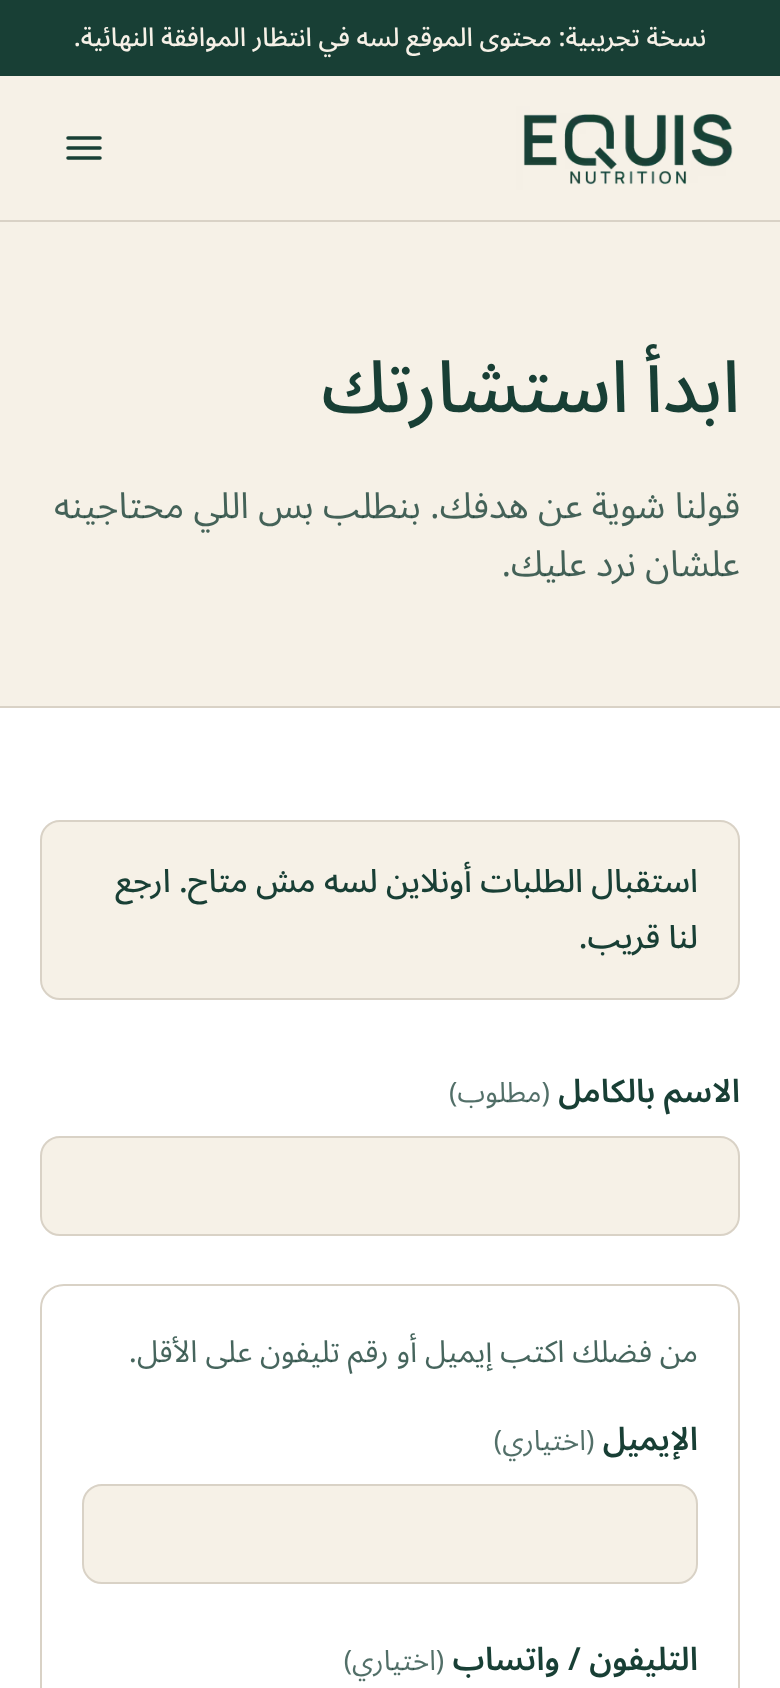
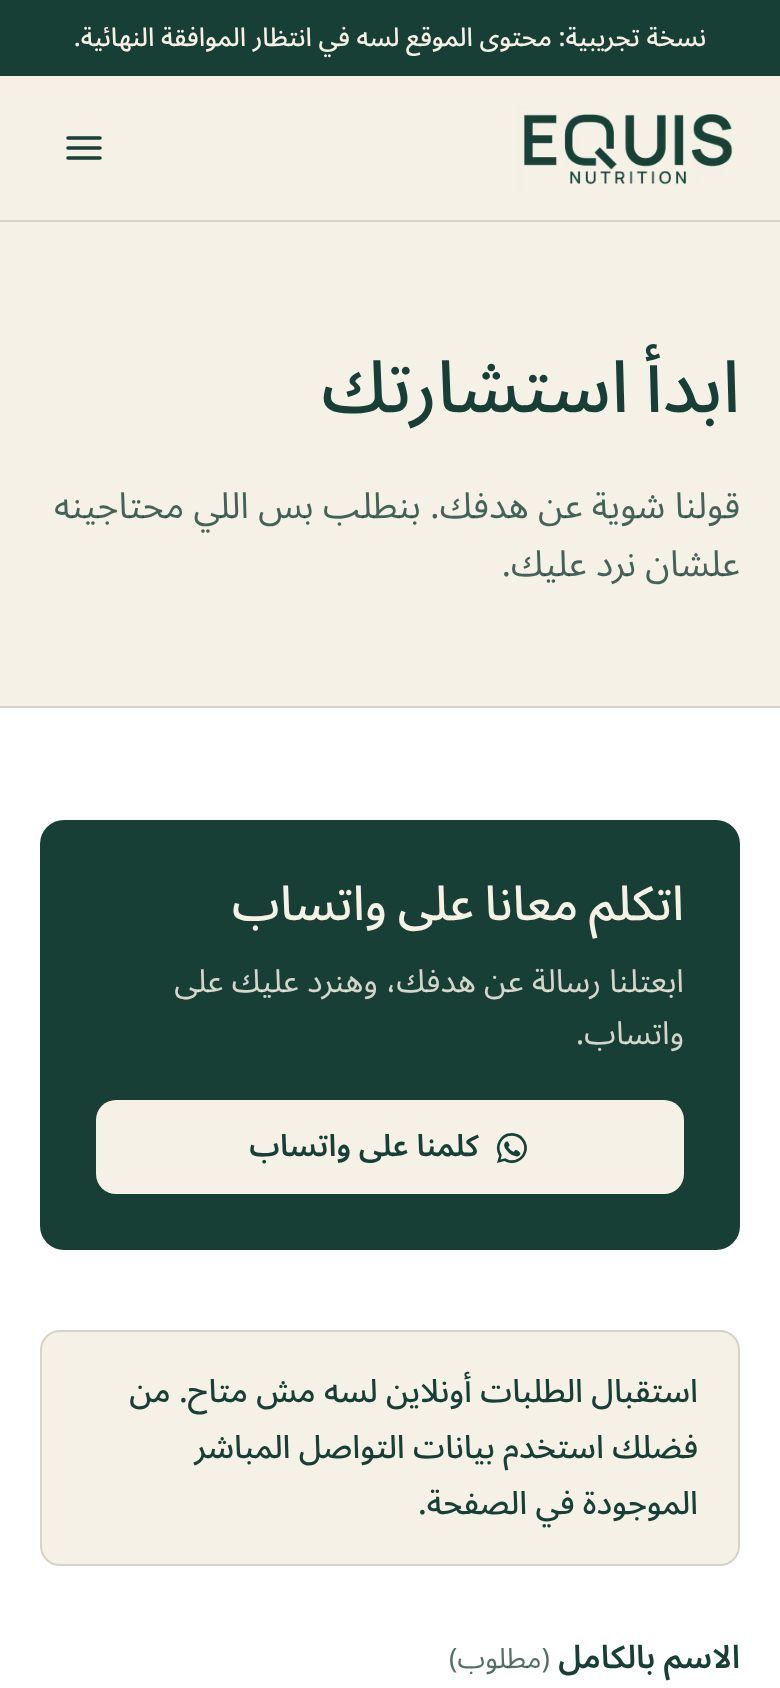
Add WhatsApp contact (+20 10 5566 3884)
- Configure the owner-supplied WhatsApp number in business config
- WhatsApp button with a localized pre-filled greeting on the CTA band
  and as the primary action on the contact page while online
  enquiries are not configured
- Tests for link format and visibility; build report updated

Claude-Session: https://claude.ai/code/session_016KsPWHrbnGZ8D5GdB4mDmh

diff --git a/src/app/[locale]/contact/page.tsx b/src/app/[locale]/contact/page.tsx
@@ -3,7 +3,8 @@ import { getTranslations } from "next-intl/server";
 import { resolveLocale } from "@/lib/page";
 import { pageMetadata } from "@/lib/seo";
 import { isEnquiryConfigured } from "@/lib/enquiry/adapter";
-import { getContactChannels } from "@/lib/contact";
+import { getContactChannels, getWhatsAppLink } from "@/lib/contact";
+import { WhatsAppButton } from "@/components/marketing/WhatsAppButton";
 import { PageHeader } from "@/components/marketing/PageHeader";
 import { EnquiryForm } from "@/components/forms/EnquiryForm";
 
@@ -18,6 +19,7 @@ export default async function ContactPage({ params }: PageProps<"/[locale]/conta
   const t = await getTranslations("contact");
   const channels = getContactChannels();
   const configured = isEnquiryConfigured();
+  const hasWhatsApp = getWhatsAppLink() !== null;
 
   return (
     <>
@@ -25,6 +27,20 @@ export default async function ContactPage({ params }: PageProps<"/[locale]/conta
       <div className="bg-white py-14 md:py-20">
         <div className="container-site grid gap-12 lg:grid-cols-[1.6fr_1fr] lg:gap-16">
           <div>
+            {hasWhatsApp ? (
+              <section
+                aria-labelledby="whatsapp"
+                className={`mb-10 rounded-[12px] p-7 ${configured ? "border border-neutral bg-cream" : "bg-evergreen text-cream"}`}
+              >
+                <h2 id="whatsapp" className="font-serif text-2xl font-medium">
+                  {t("whatsappTitle")}
+                </h2>
+                <p className={`mt-2 leading-relaxed ${configured ? "text-evergreen/80" : "text-cream/85"}`}>
+                  {t("whatsappLead")}
+                </p>
+                <WhatsAppButton variant={configured ? "primary" : "inverse"} className="mt-5 w-full sm:w-auto" />
+              </section>
+            ) : null}
             <EnquiryForm configured={configured} hasDirectContact={channels.length > 0} />
           </div>
           <aside className="space-y-6">

diff --git a/tests/content.test.ts b/tests/content.test.ts
@@ -5,7 +5,7 @@ import fr from "@/messages/fr.json";
 import { businessConfig } from "@/config/business";
 import { contentConfig } from "@/config/content";
 import { enabledPages, mainNav } from "@/config/pages";
-import { getContactChannels, getSocialLinks } from "@/lib/contact";
+import { getContactChannels, getSocialLinks, getWhatsAppLink } from "@/lib/contact";
 import { createRateLimiter } from "@/lib/spam/rateLimit";
 
 function shape(value: unknown, path = ""): string[] {
@@ -57,9 +57,25 @@ describe("content gating", () => {
 });
 
 describe("contact details", () => {
+  const blank = {
+    ...businessConfig,
+    contactEmail: "",
+    phone: "",
+    whatsappNumber: "",
+    social: { instagram: "", facebook: "", tiktok: "", youtube: "" },
+  };
+
   it("publishes nothing while business details are blank", () => {
-    expect(getContactChannels(businessConfig)).toEqual([]);
-    expect(getSocialLinks(businessConfig)).toEqual([]);
+    expect(getContactChannels(blank)).toEqual([]);
+    expect(getSocialLinks(blank)).toEqual([]);
+    expect(getWhatsAppLink("hi", blank)).toBeNull();
+  });
+
+  it("uses the configured Egyptian WhatsApp number in international format", () => {
+    expect(getContactChannels(businessConfig)).toEqual([
+      { kind: "whatsapp", href: "https://wa.me/201055663884", display: "+20 10 5566 3884" },
+    ]);
+    expect(getWhatsAppLink("أهلًا EQUIS")).toBe(`https://wa.me/201055663884?text=${encodeURIComponent("أهلًا EQUIS")}`);
   });
 
   it("builds safe links only from valid configured values", () => {

diff --git a/src/components/marketing/WhatsAppButton.tsx b/src/components/marketing/WhatsAppButton.tsx
@@ -1,0 +1,31 @@
+import { getTranslations } from "next-intl/server";
+import { getWhatsAppLink } from "@/lib/contact";
+import { buttonStyles } from "@/components/ui/ButtonLink";
+
+function WhatsAppIcon() {
+  return (
+    <svg aria-hidden="true" width="18" height="18" viewBox="0 0 24 24" fill="currentColor">
+      <path d="M12 2a10 10 0 0 0-8.6 15.1L2 22l5-1.3A10 10 0 1 0 12 2Zm0 18.2c-1.5 0-3-.4-4.3-1.2l-.3-.2-3 .8.8-2.9-.2-.3A8.2 8.2 0 1 1 12 20.2Zm4.5-6.1c-.2-.1-1.5-.7-1.7-.8-.2-.1-.4-.1-.6.1l-.8 1c-.1.2-.3.2-.5.1a6.7 6.7 0 0 1-3.3-2.9c-.2-.4.2-.4.7-1.3.1-.2 0-.3 0-.4l-.8-1.8c-.2-.5-.4-.4-.6-.4h-.5a1 1 0 0 0-.7.3c-.2.3-.9.9-.9 2.2s1 2.6 1.1 2.7c.1.2 1.9 2.9 4.6 4 1.7.7 2.4.8 3.2.7.5-.1 1.5-.6 1.7-1.2.2-.6.2-1.1.1-1.2l-.5-.3Z" />
+    </svg>
+  );
+}
+
+/** Renders nothing unless a real WhatsApp number is configured. */
+export async function WhatsAppButton({
+  variant = "primary",
+  className = "",
+}: {
+  variant?: keyof typeof buttonStyles;
+  className?: string;
+}) {
+  const t = await getTranslations("contact");
+  const href = getWhatsAppLink(t("whatsappPrefill"));
+  if (!href) return null;
+  return (
+    <a href={href} target="_blank" rel="noopener noreferrer" className={`${buttonStyles[variant]} ${className}`}>
+      <WhatsAppIcon />
+      {t("whatsappCta")}
+      <span className="sr-only"> ({t("opensWhatsapp")})</span>
+    </a>
+  );
+}

diff --git a/e2e/site.spec.ts b/e2e/site.spec.ts
@@ -144,3 +144,19 @@ test("legal pages are marked as drafts, not reviewed", async ({ page }) => {
     await expect(page.getByRole("note").filter({ hasText: "not yet been legally reviewed" })).toBeVisible();
   }
 });
+
+test("WhatsApp contact links use the configured number with a localized greeting", async ({ page }) => {
+  await page.goto("/ar/contact");
+  const link = page.getByRole("link", { name: /كلمنا على واتساب/ }).first();
+  await expect(link).toBeVisible();
+  const href = (await link.getAttribute("href"))!;
+  expect(href.startsWith("https://wa.me/201055663884?text=")).toBe(true);
+  expect(decodeURIComponent(href.split("text=")[1])).toBe("أهلًا EQUIS، حابب أسأل عن الاستشارة.");
+  await expect(link).toHaveAttribute("rel", /noopener/);
+  await page.goto("/en");
+  await expect(page.getByRole("link", { name: /Message us on WhatsApp/ })).toHaveAttribute(
+    "href",
+    /^https:\/\/wa\.me\/201055663884\?text=/,
+  );
+  await expect(page.locator("footer")).toContainText("+20 10 5566 3884");
+});

diff --git a/src/components/marketing/CtaBand.tsx b/src/components/marketing/CtaBand.tsx
@@ -1,5 +1,6 @@
 import { getTranslations } from "next-intl/server";
 import { ButtonLink } from "@/components/ui/ButtonLink";
+import { WhatsAppButton } from "./WhatsAppButton";
 
 export async function CtaBand() {
   const t = await getTranslations();
@@ -13,9 +14,12 @@ export async function CtaBand() {
             </h2>
             <p className="mt-4 text-lg leading-relaxed text-cream/85">{t("home.finalCta.lead")}</p>
           </div>
-          <ButtonLink href="/contact" variant="inverse" className="shrink-0">
-            {t("common.ctaPrimary")}
-          </ButtonLink>
+          <div className="flex w-full shrink-0 flex-col gap-3 sm:w-auto sm:flex-row md:flex-col lg:flex-row">
+            <ButtonLink href="/contact" variant="inverse">
+              {t("common.ctaPrimary")}
+            </ButtonLink>
+            <WhatsAppButton variant="inverseOutline" />
+          </div>
         </div>
       </div>
     </section>

diff --git a/src/components/ui/ButtonLink.tsx b/src/components/ui/ButtonLink.tsx
@@ -1,7 +1,7 @@
 import { Link } from "@/i18n/navigation";
 import type { ComponentProps } from "react";
 
-type Variant = "primary" | "secondary" | "inverse";
+type Variant = "primary" | "secondary" | "inverse" | "inverseOutline";
 
 const base =
   "inline-flex min-h-11 items-center justify-center gap-2 rounded-[10px] px-5 py-2.5 text-[0.95rem] font-semibold transition-colors duration-150";
@@ -10,6 +10,7 @@ export const buttonStyles: Record<Variant, string> = {
   primary: `${base} bg-evergreen text-cream hover:bg-evergreen-700`,
   secondary: `${base} border border-evergreen/30 text-evergreen hover:border-evergreen hover:bg-white`,
   inverse: `${base} bg-cream text-evergreen hover:bg-white`,
+  inverseOutline: `${base} border border-cream/50 text-cream hover:border-cream hover:bg-cream/10`,
 };
 
 export function ButtonLink({

diff --git a/src/lib/contact.ts b/src/lib/contact.ts
@@ -47,6 +47,14 @@ export function getContactChannels(cfg = businessConfig): ContactChannel[] {
   return out;
 }
 
+/** WhatsApp chat link, optionally with a pre-filled first message. Null when no number is configured. */
+export function getWhatsAppLink(prefill?: string, cfg = businessConfig): string | null {
+  const wa = cfg.whatsappNumber ? normalizePhone(cfg.whatsappNumber) : null;
+  if (!wa) return null;
+  const base = `https://wa.me/${wa.e164.slice(1)}`;
+  return prefill ? `${base}?text=${encodeURIComponent(prefill)}` : base;
+}
+
 export type SocialLink = { network: keyof typeof businessConfig.social; href: string };
 
 export function getSocialLinks(cfg = businessConfig): SocialLink[] {

diff --git a/src/config/business.ts b/src/config/business.ts
@@ -3,7 +3,8 @@ export const businessConfig = {
   founderName: "Dr. Mahran Mohamed",
   contactEmail: "",
   phone: "",
-  whatsappNumber: "",
+  // International format (+20 = Egypt) so links work from the Gulf too.
+  whatsappNumber: "+20 10 5566 3884",
   address: "",
   social: {
     instagram: "",

diff --git a/docs/BUILD_REPORT.md b/docs/BUILD_REPORT.md
@@ -26,7 +26,7 @@ The site has no coaching-platform features. There is no login, dashboard, databa
 | Services | `/…/services` | Done. No prices, no guarantees. |
 | How it works | `/…/how-it-works` | Done. Explanatory only. |
 | FAQ | `/…/faq` | Done. Answers are drafts awaiting approval. |
-| Contact / Consultation | `/…/contact` | Done. The form is disabled until a provider is configured. |
+| Contact / Consultation | `/…/contact` | Done. WhatsApp is the main action; the form is disabled until a provider is configured. |
 | Privacy policy | `/…/privacy` | Draft, marked "not legally reviewed" |
 | Terms of use | `/…/terms` | Draft, marked "not legally reviewed" |
 | Transformations | `/…/transformations` | Hidden (404). Needs the flag **and** consented items. |
@@ -65,9 +65,9 @@ Unknown paths return a localized 404. `/` redirects to the visitor's browser lan
 |---|---|
 | `npm run typecheck` | Pass |
 | `npm run lint` | Pass (0 warnings) |
-| `npm test` (Vitest) | 34 / 34 pass |
+| `npm test` (Vitest) | 35 / 35 pass |
 | `npm run build` | Pass |
-| `npm run test:e2e` (Playwright) | 41 / 41 pass |
+| `npm run test:e2e` (Playwright) | 42 / 42 pass |
 
 What the end-to-end suite covers:
 - All 24 page/locale combinations: status 200, `lang` and `dir` set correctly, a single h1, canonical plus 4 hreflang links, logo artwork present, and no empty, `#` or placeholder links.
@@ -122,8 +122,9 @@ Screenshots: `docs/screenshots/`.
 
 ## Before launch (from `OPEN_ITEMS.md`)
 
-- [ ] Domain: set `NEXT_PUBLIC_SITE_URL`. Until then, canonical URLs and the sitemap use `http://localhost:3000`.
-- [ ] Contact email, phone and WhatsApp, and social URLs in `src/config/business.ts`.
+- [ ] Domain (not purchased yet): set `NEXT_PUBLIC_SITE_URL` once bought. Until then, canonical URLs and the sitemap use `http://localhost:3000`.
+- [x] WhatsApp: `+20 10 5566 3884` (supplied 2026-11-20). It shows in the footer, as a WhatsApp button next to "Start your consultation", and as the main action on the Contact page, with a pre-filled greeting in the visitor's language.
+- [ ] Optional: a public email and social URLs in `src/config/business.ts`. Phone calls are not shown separately; set `phone` to show them too.
 - [ ] Approve all copy in three languages, then set `copyApproved: true`. This removes the banner and enables indexing.
 - [ ] Approve the FAQ answers and service descriptions, and confirm the service format (online, in person or both).
 - [ ] Get the Privacy Policy and Terms legally reviewed for Egypt and the Gulf, then set `legalReviewed: true` and `legalLastUpdated`.
